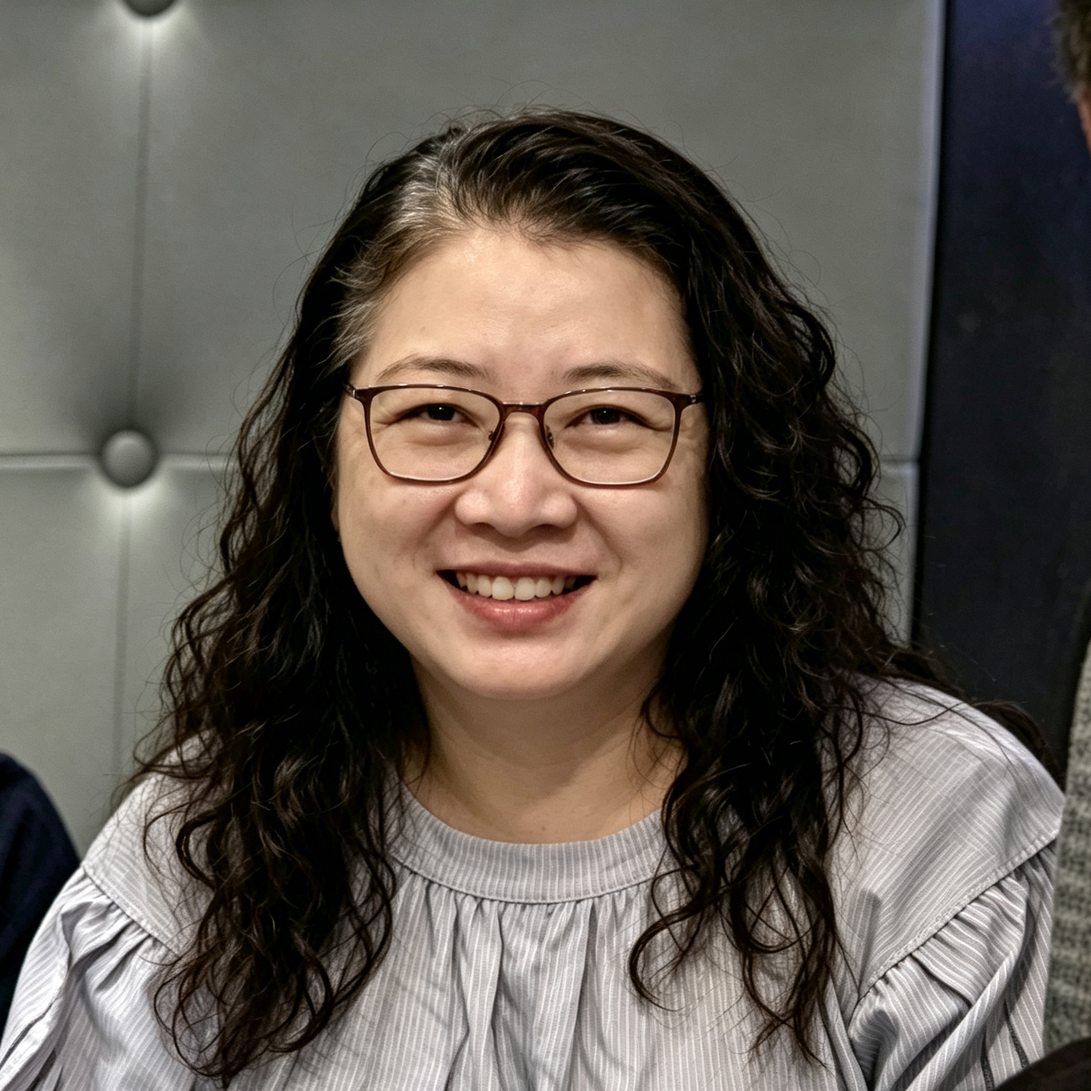
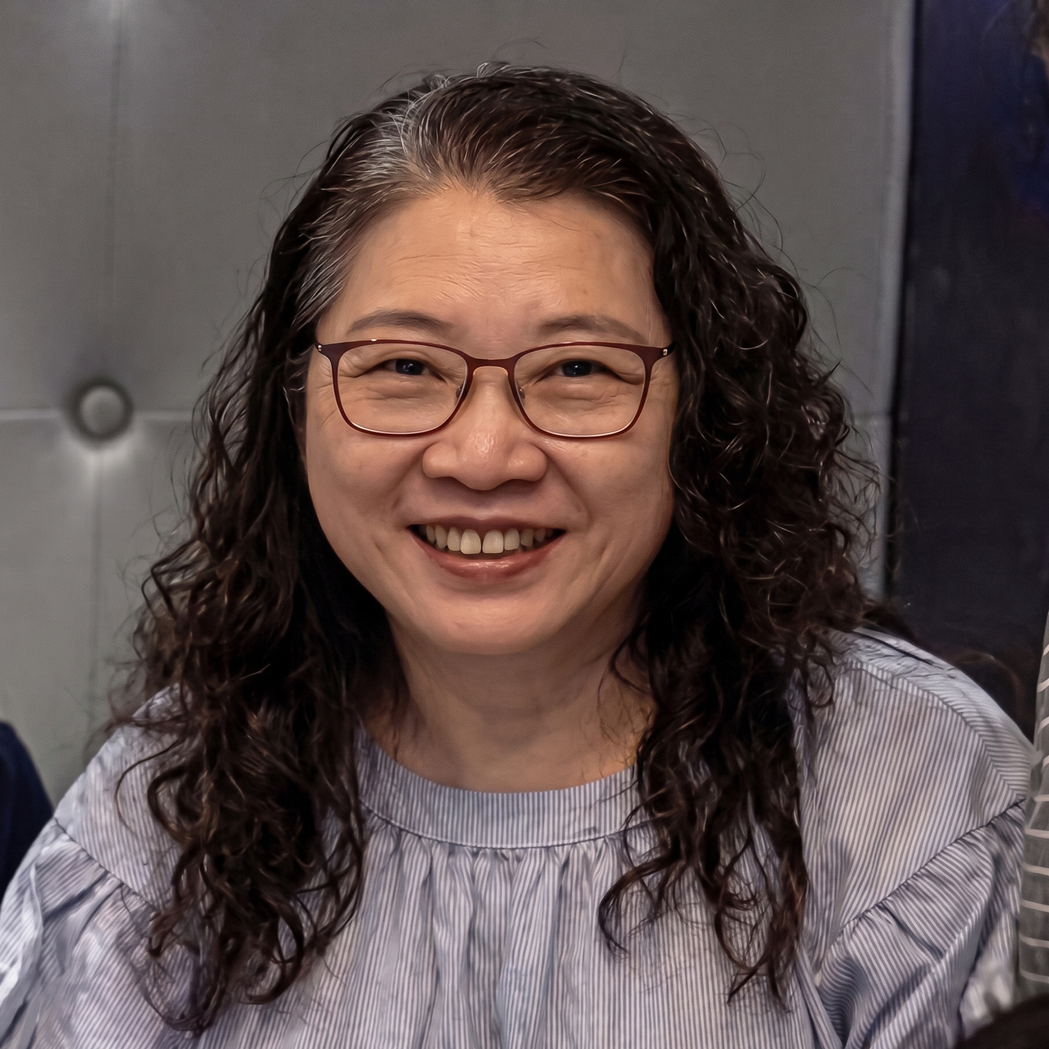
Add files via upload

diff --git a/team.html b/team.html
@@ -277,19 +277,14 @@ $(document).ready(function () {
 </div>
 
 
-<div id="team" class="section level2">
-<h2><strong>Team</strong><br></h2>
-<p><br></p>
 <div id="see-here-for-current-opportunities-to-join-the-team."
 class="section level3">
 <h3>See <a href="opportunities.html">here</a> for current opportunities
 to join the team.</h3>
 <hr>
 </div>
-</div>
 <div id="current" class="section level2">
-<h2><strong>Current</strong></h2>
-<p><br></p>
+<h2><strong>Current</strong><br></h2>
 <div class="row">
 <div class="col-md-4 text-center" style="margin-bottom:40px">
 <p><img src="Portrait/Hao-Yu%20Wang.jpg" width="220"><br><br></p>
@@ -314,8 +309,7 @@ Technical officer (2026– )</p>
 <hr>
 </div>
 <div id="alumni" class="section level2">
-<h2><strong>Alumni</strong></h2>
-<p><br></p>
+<h2><strong>Alumni</strong><br></h2>
 <div class="row">
 <div class="col-md-4 text-center" style="margin-bottom:40px">
 <p><img src="Portrait/Lu%20Zong.jpg" width="220"><br><br></p>
